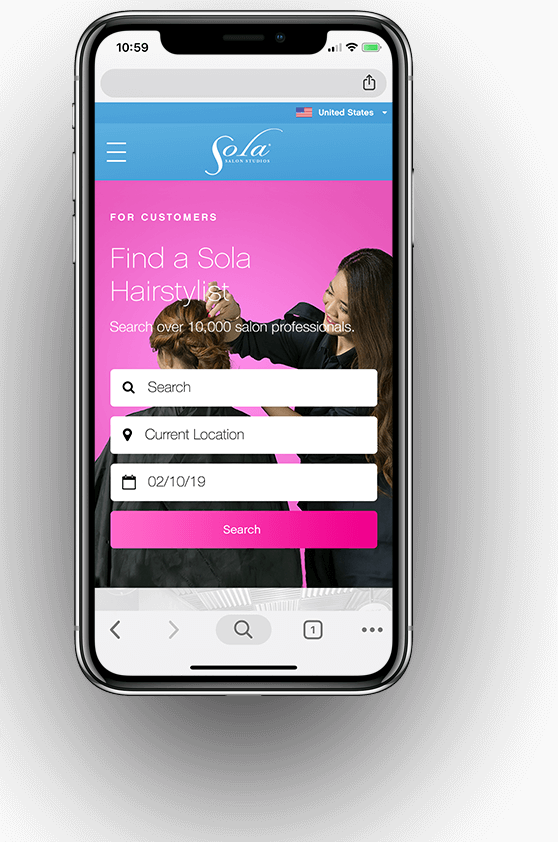
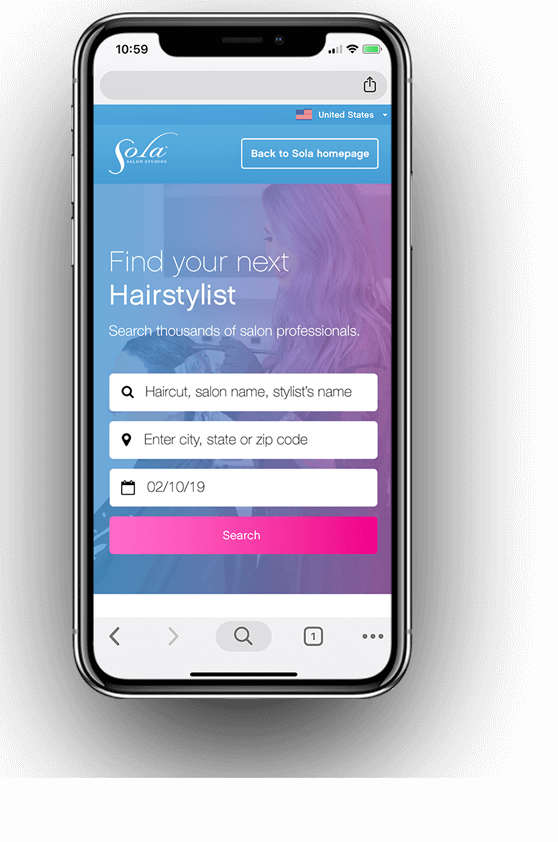
update booknow landing page imgaes and remove coming soon

diff --git a/app/assets/stylesheets/booknow_landing_page.css.scss b/app/assets/stylesheets/booknow_landing_page.css.scss
@@ -855,7 +855,7 @@ body.booknow {
     
 }
 @media only screen and (max-width:479px){
-      .mobile figure img{margin: 20px auto 0 auto;width:200px;}
+      .mobile figure img{margin: 20px auto 0 auto;width:200px; position: relative; left: 10px;}
     .hero-block{height:520px;}
     .genius h1{font-size:32px;line-height: 35px;}
     .genius span{font-size:20px;line-height: 25px;letter-spacing: 2px;}
